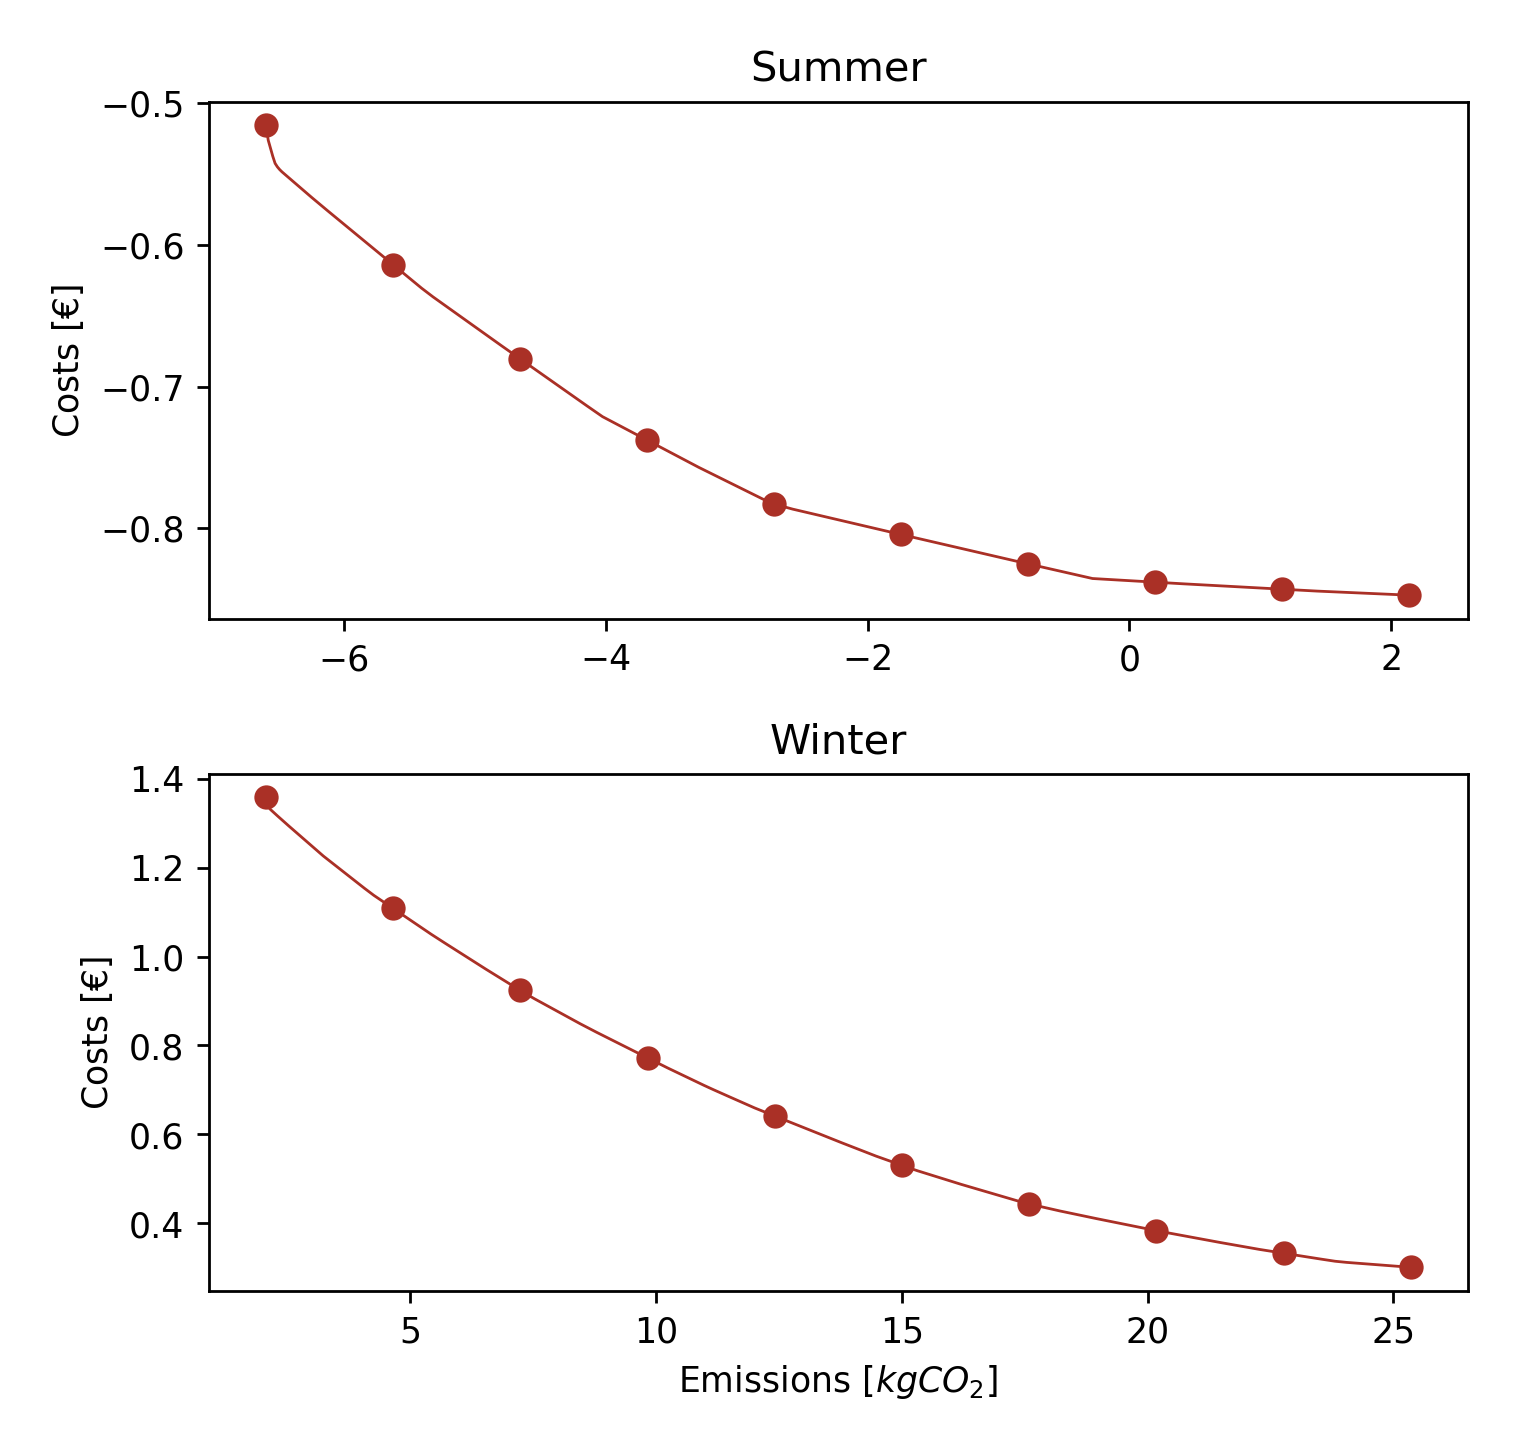
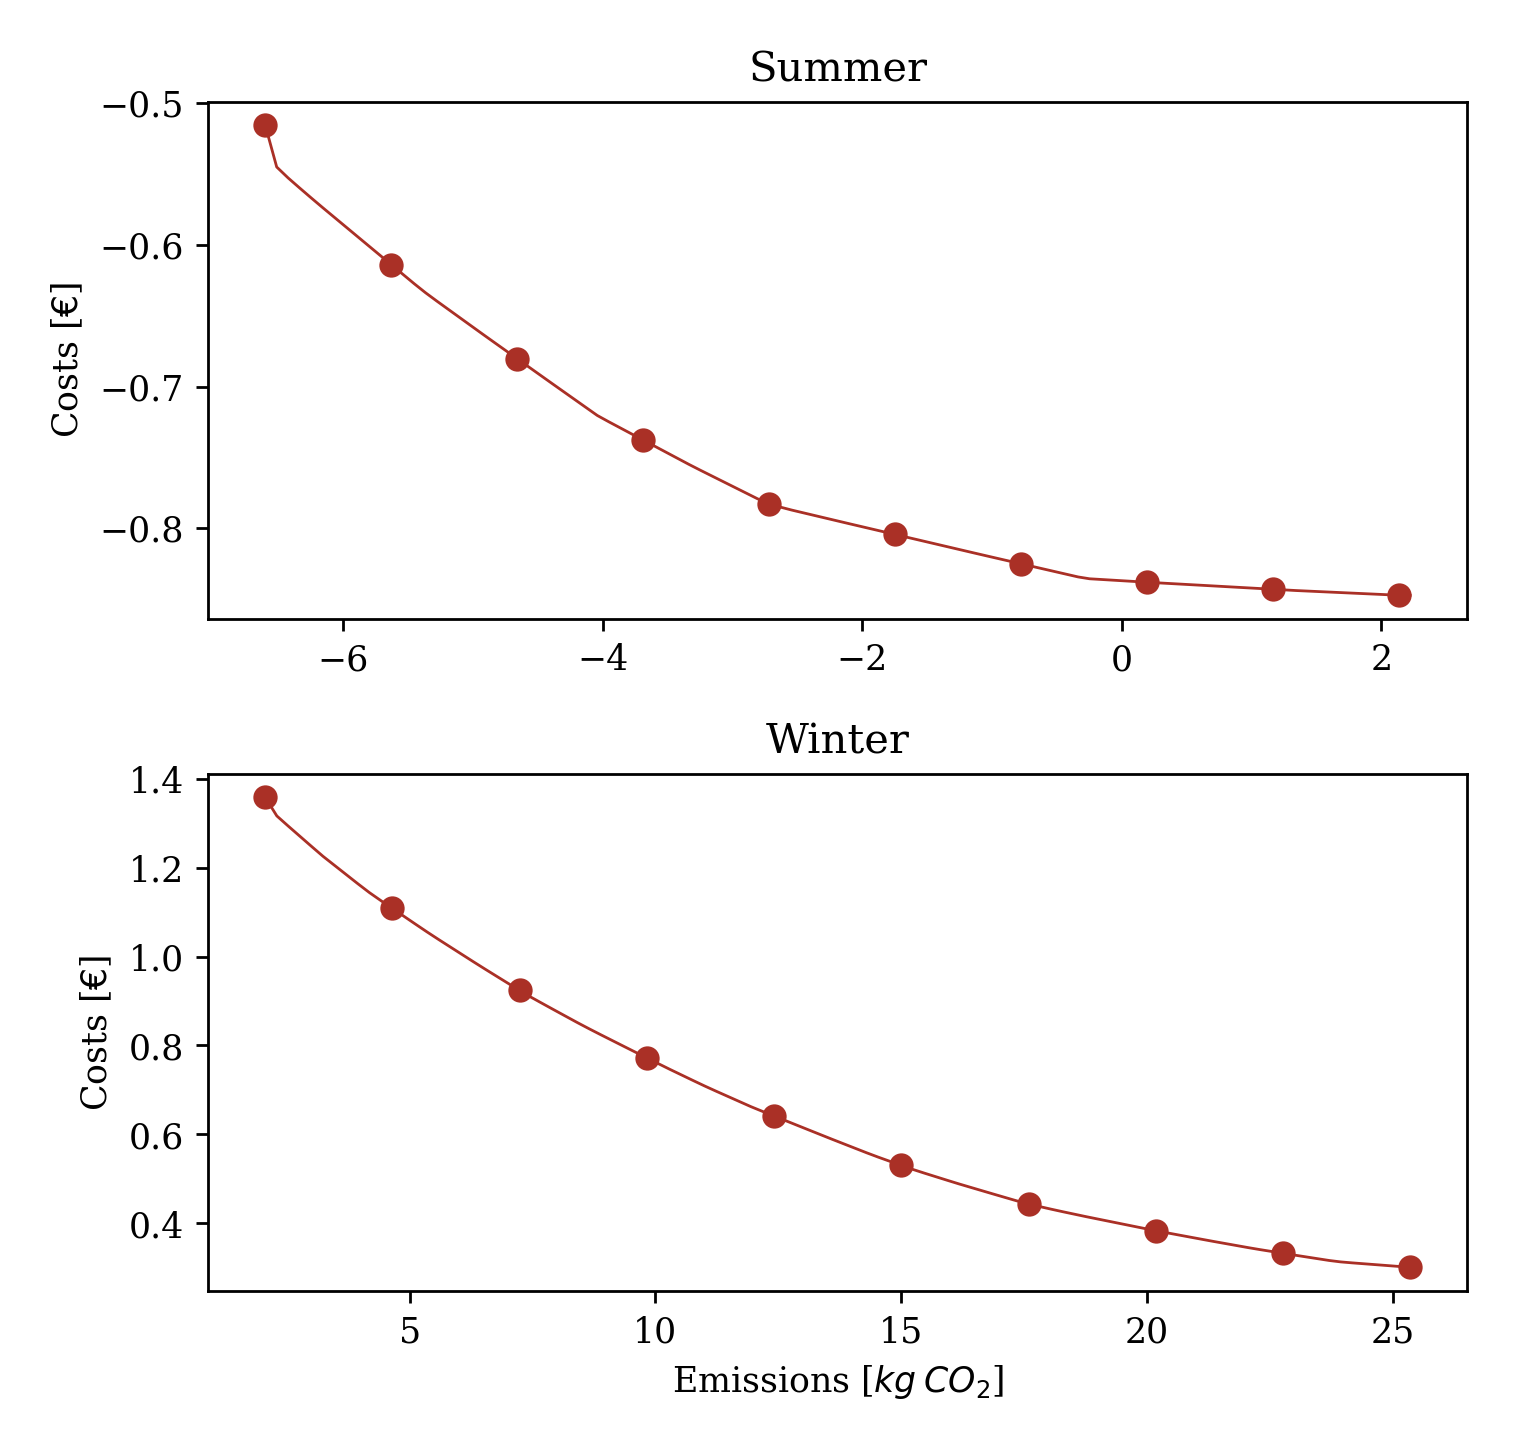
fix: Add spacing in the emissions label unit

diff --git a/src/question3.py b/src/question3.py
@@ -53,7 +53,7 @@ def season_changer(group, season, no_bins):
 group = 12
 seasons = ['Summer', 'Winter']
 figure, axes = plots.create_plot_with_subplots(2, 1,
-                                               xlabel='Emissions [$kg CO_2$]',
+                                               xlabel='Emissions [$kg\:CO_2$]',
                                                ylabel='Costs [$€$]',
                                                sharex=False, sharey=False)
 
